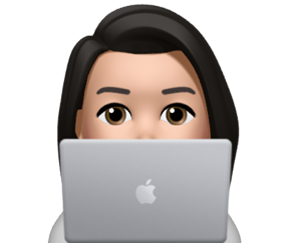
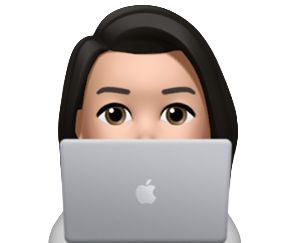
Remove Image bg + Mobile

diff --git a/index.html b/index.html
@@ -38,11 +38,11 @@
 								</li><li>
 									<a href="#faq">FAQ</a>
 								</li><li>
-									<a href="https://domain.ext/path">The Team</a>
+									<a href="https://swiftuae.org/theteam.html">The Team</a>
 								</li><li>
-									<a href="#signup">Sign Up</a>
+									<a href="https://form.jotform.com/231222294317045">Sign Up</a>
 								</li><li>
-									<a href="https://domain.ext/path">iOS Design Challenge</a>
+									<a href="https://iosdesign.ae">iOS Design Challenge</a>
 								</li>
 							</div>
 						</ul>
@@ -217,9 +217,106 @@
 								<div class="inner">
 									<div>
 										<h3 id="text12">How do I sign up?</h3>
-										<p id="text18">Lorem ipsum dolor sit amet, consectetur adipiscing elit, sed do eiusmod tempor incididunt ut labore et dolore magna aliqua. Ut enim ad minim veniam, quis nostrud exercitation ullamco laboris nisi ut aliquip ex ea commodo consequat.</p>
+										<p id="text18">Fill in the Form below to indicate your interest in joining!</p>
 										<hr id="divider16">
-										<script type="text/javascript" src="https://form.jotform.com/jsform/231222294317045"></script>
+										
+										<iframe
+											id="JotFormIFrame-231222294317045"
+											title="Swift Accelerator UAE Signups"
+											onload="window.parent.scrollTo(0,0)"
+											allowtransparency="true"
+											allowfullscreen="true"
+											allow="geolocation; microphone; camera"
+											src="https://form.jotform.com/231222294317045"
+											frameborder="0"
+											style="min-width:100%;max-width:100%;border:none;"
+											scrolling="yes"
+											height="300"
+										>
+										</iframe>
+										<script type="text/javascript">
+										var ifr = document.getElementById("JotFormIFrame-231222294317045");
+										if (ifr) {
+											var src = ifr.src;
+											var iframeParams = [];
+											if (window.location.href && window.location.href.indexOf("?") > -1) {
+											iframeParams = iframeParams.concat(window.location.href.substr(window.location.href.indexOf("?") + 1).split('&'));
+											}
+											if (src && src.indexOf("?") > -1) {
+											iframeParams = iframeParams.concat(src.substr(src.indexOf("?") + 1).split("&"));
+											src = src.substr(0, src.indexOf("?"))
+											}
+											iframeParams.push("isIframeEmbed=1");
+											ifr.src = src + "?" + iframeParams.join('&');
+										}
+										window.handleIFrameMessage = function(e) {
+											if (typeof e.data === 'object') { return; }
+											var args = e.data.split(":");
+											if (args.length > 2) { iframe = document.getElementById("JotFormIFrame-" + args[(args.length - 1)]); } else { iframe = document.getElementById("JotFormIFrame"); }
+											if (!iframe) { return; }
+											switch (args[0]) {
+											case "scrollIntoView":
+												iframe.scrollIntoView();
+												break;
+											case "setHeight":
+												iframe.style.height = args[1] + "px";
+												if (!isNaN(args[1]) && parseInt(iframe.style.minHeight) > parseInt(args[1])) {
+												iframe.style.minHeight = args[1] + "px";
+												}
+												break;
+											case "collapseErrorPage":
+												if (iframe.clientHeight > window.innerHeight) {
+												iframe.style.height = window.innerHeight + "px";
+												}
+												break;
+											case "reloadPage":
+												window.location.reload();
+												break;
+											case "loadScript":
+												if( !window.isPermitted(e.origin, ['jotform.com', 'jotform.pro']) ) { break; }
+												var src = args[1];
+												if (args.length > 3) {
+													src = args[1] + ':' + args[2];
+												}
+												var script = document.createElement('script');
+												script.src = src;
+												script.type = 'text/javascript';
+												document.body.appendChild(script);
+												break;
+											case "exitFullscreen":
+												if      (window.document.exitFullscreen)        window.document.exitFullscreen();
+												else if (window.document.mozCancelFullScreen)   window.document.mozCancelFullScreen();
+												else if (window.document.mozCancelFullscreen)   window.document.mozCancelFullScreen();
+												else if (window.document.webkitExitFullscreen)  window.document.webkitExitFullscreen();
+												else if (window.document.msExitFullscreen)      window.document.msExitFullscreen();
+												break;
+											}
+											var isJotForm = (e.origin.indexOf("jotform") > -1) ? true : false;
+											if(isJotForm && "contentWindow" in iframe && "postMessage" in iframe.contentWindow) {
+											var urls = {"docurl":encodeURIComponent(document.URL),"referrer":encodeURIComponent(document.referrer)};
+											iframe.contentWindow.postMessage(JSON.stringify({"type":"urls","value":urls}), "*");
+											}
+										};
+										window.isPermitted = function(originUrl, whitelisted_domains) {
+											var url = document.createElement('a');
+											url.href = originUrl;
+											var hostname = url.hostname;
+											var result = false;
+											if( typeof hostname !== 'undefined' ) {
+											whitelisted_domains.forEach(function(element) {
+												if( hostname.slice((-1 * element.length - 1)) === '.'.concat(element) ||  hostname === element ) {
+													result = true;
+												}
+											});
+											return result;
+											}
+										};
+										if (window.addEventListener) {
+											window.addEventListener("message", handleIFrameMessage, false);
+										} else if (window.attachEvent) {
+											window.attachEvent("onmessage", handleIFrameMessage);
+										}
+										</script>
 									</div>
 									<div>
 										<hr id="divider10">

diff --git a/theteam.html b/theteam.html
@@ -21,30 +21,7 @@
                     <header id="header">
 						<ul id="nav-links" class="topNav container columns full screen">
 							<div id="image06" class="image">
-								<span class="frame"><img src="assets/images/image06.png" alt="" oncontextmenu="return false;" ondragstart="return false;" /></span>
-							</div>
-
-							<input type="checkbox" id="checkbox_toggle" />
-							<label for="checkbox_toggle" class="hamburger">&#9776;</label>
-
-							<div class="menu">
-								<li>
-									<a href="#about">About</a>
-								</li><li>
-									<a href="#outline">Course Outline</a>
-								</li><li>
-									<a href="#dates">Important Dates</a>
-								</li><li>
-									<a href="#learn">Learn</a>
-								</li><li>
-									<a href="#faq">FAQ</a>
-								</li><li>
-									<a href="https://domain.ext/path">The Team</a>
-								</li><li>
-									<a href="#signup">Sign Up</a>
-								</li><li>
-									<a href="https://domain.ext/path">iOS Design Challenge</a>
-								</li>
+								<a href="https://swiftuae.org" class="frame"><img href="https://swiftuae.org"  src="assets/images/image06.png" alt="" oncontextmenu="return false;" ondragstart="return false;" /></a>
 							</div>
 						</ul>
 					</header>
@@ -186,7 +163,7 @@
 							</div>
 						
 							<div class="grid-cell">
-								<img src="assets/memoji/Reem.jpg" />
+								<img src="assets/memoji/Reem.png" />
 								<h4>Reem<h4/>
 								<p>Hey there! I am Reem, and I am a PG Application Development Student at HCT. I have recently acquired my “App Development with Swift – Certified User” Certificate. I have experience in developing iOS applications with swift for a little over a year. I am very proud to be part of this Swift Accelerator Program, and I am aiming to help students learn from my experience.</p>
 							</div>
@@ -213,13 +190,13 @@
 							</div>
 
 							<div class="grid-cell">
-								<img src="assets/memoji/Sufian.jpg" />
+								<img src="assets/memoji/Sufian.png" />
 								<h4>Sufian<h4/>
 								<p>Hello! Sufian here, and I teach Applications Development at the HCT RAK Women's Campus. I'm also a certified Apple trainer in Swift app development. I have over 30 years of experience teaching software development and developing software applications in higher education. I'm thrilled to be a part of this initiative to coach students on developing their own apps to realize their ideas.</p>
 							</div>
 
 							<div class="grid-cell">
-								<img src="assets/memoji/Sultan.jpg" />
+								<img src="assets/memoji/Sultan.png" />
 								<h4>Sultan<h4/>
 								<p>I'm Sultan Alkatheeri, a senior studying an application development and founder of Swipetap company. I enjoy creating innovative and user-friendly apps for iOS, Android, and web platforms, with experience in API and AI technologies.</p>
 							</div>

diff --git a/assets/team.css b/assets/team.css
@@ -60,7 +60,9 @@
 }
 
 @media (max-width: 1280px) {
-	
+	.grid-container {
+        grid-template-columns: auto auto auto;
+    }
 }
 
 @media (max-width: 1024px) {
@@ -68,11 +70,15 @@
 }
 
 @media (max-width: 980px) {
-	
+	.grid-container {
+        grid-template-columns: auto auto;
+    }
 }
 
 @media (max-width: 736px) {
-
+    .grid-container {
+        grid-template-columns: auto;
+    }
 }
 
 @media (max-width: 480px) {
